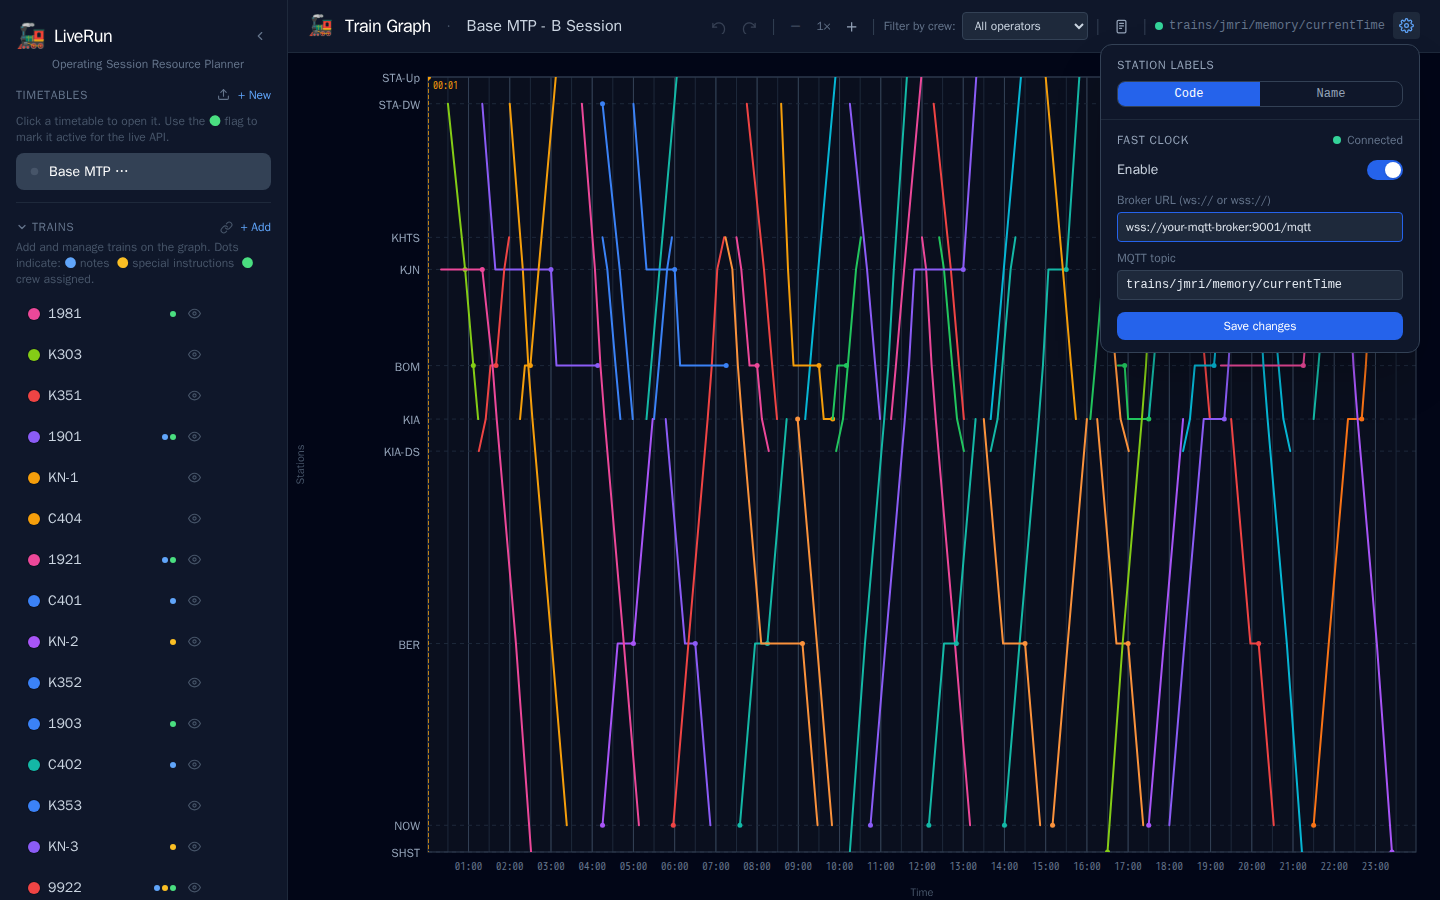
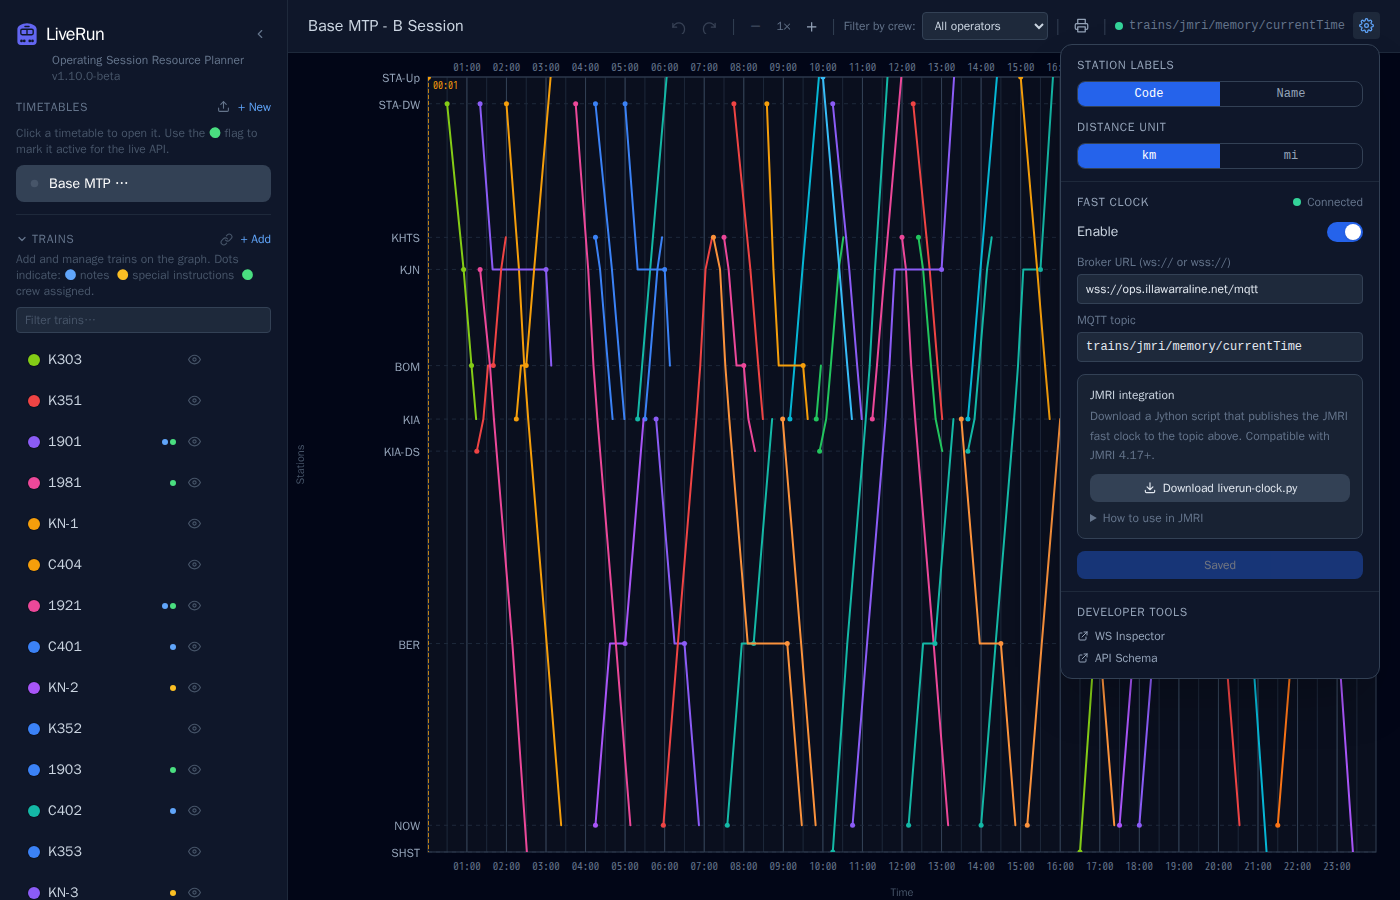
docs: rewrite README for clarity, fix Docker port to 3001, update screenshots
- Rewrote README for cleaner prose and structure; fixed SQLite→JSON persistence description
- Changed docker-compose port mapping from 38001:3001 to 3001:3001
- Added locationAlias field to live station board and train stop API responses
- Updated screenshots to reflect current UI

diff --git a/server/index.js b/server/index.js
@@ -871,6 +871,7 @@ function buildStationBoard(tt, stationNameParam, directionQuery, trainIdFilter, 
         const stopStation = stationMap.get(stop.station_id);
         return {
           stopName: stopStation ? stopStation.name : stop.station_id,
+          locationAlias: stop.location_alias || null,
           arrival: stop.arrival || null,
           departure: stop.departure || null,
           specialInstructions: stop.special_instructions || null,
@@ -946,6 +947,7 @@ app.get('/api/timetables/:id/live/trains/:trainName', (req, res) => {
     const station = stationMap.get(stop.station_id);
     return {
       stopName: station ? station.name : stop.station_id,
+      locationAlias: stop.location_alias || null,
       arrival: stop.arrival || null,
       departure: stop.departure || null,
       specialInstructions: stop.special_instructions || null,

diff --git a/README.md b/README.md
@@ -15,7 +15,8 @@ LiveRun is a web app built for model railway clubs and home layouts. Build a str
 | **Visualise your session** | Build an interactive train graph — see every service at a glance, zoom in for detail, hover for stop times |
 | **Plan crew workloads** | Assign trains to operators, auto-distribute services, and filter the graph by crew member |
 | **Speed up train entry** | Define reusable route templates (Paths) and auto-fill all stop times from a single departure time |
-| **Print station registers** | Generate printable A5 timetables for each station — ready to hand out on the day |
+| **Print timetables and registers** | Print the full working timetable, station registers, and the train graph — formatted for A4 and A5 |
+| **Find trains instantly** | Filter the train list by name as you type — useful in large timetables |
 | **Connect external systems** | Feed guard panels, JMRI displays, and operator apps from a live REST API |
 | **Sync the fast clock** | Subscribe to an MQTT broker topic and see the session clock ticking on the graph |
 | **Export to CATS** | One click exports your trains and crew roster as CATS XML |
@@ -28,13 +29,16 @@ LiveRun is a web app built for model railway clubs and home layouts. Build a str
 
 The heart of LiveRun — an interactive stringline graph with time on the X axis and stations on the Y axis.
 
-- Stations are spaced to true distance scale using configurable graph position values
+- Stations are spaced to scale using configurable graph position values
 - Zoom up to **8×** on the time axis for detailed planning
 - **Live updates** — the graph redraws instantly as you edit stop times
 - Hover any train line for its name, origin, destination, and full stop list
 - **Next service** indicator on the tooltip when the same locomotive runs again later in the session
+- **Branch groups** — organise stations into named branches; each branch is visually separated in the sidebar and on the graph
 - Show or hide individual trains without deleting them
 - Full **undo / redo** history
+
+![Train graph with branch groups](docs/screenshots/01b-train-graph-branches.png)
 
 ![Zoomed graph with tooltip](docs/screenshots/02-train-graph-zoomed-tooltip.png)
 
@@ -45,12 +49,27 @@ The heart of LiveRun — an interactive stringline graph with time on the X axis
 - **Duplicate** — clone an existing timetable as a starting point for a new session
 - **Import / Export** — back up and restore timetables as JSON
 
+### Stations
+
+- Assign a **short code** for compact graph labels and reports (e.g. `KJN` for Kembla Junction)
+- Set a **graph position** to control Y-axis order and spacing on the stringline
+- Group stations by **branch name** to visually separate lines in the sidebar and graph
+- **Auto-space** on insert — push-down shifts all stations below the new one down by one graph position automatically
+- **Location alias toggle** — enable per-station to let individual stops display a custom name (e.g. a platform or siding) in reports and on guard panels
+
 ### Trains
 
 - **Colour-coded** — 12 preset colours plus a custom colour picker
 - **Rich metadata** — train number, type, roster ID, direction, and free-text notes
 - **Special instructions** — per-stop notes surfaced on guard panels and operator displays
 - At-a-glance dot indicators on the train list: 🔵 notes · 🟡 special instructions · 🟢 crew assigned
+- **Search and filter** — type in the filter bar to instantly narrow the train list by name
+- **Terminal stop enforcement** — the first stop has no arrival field; the last stop has no departure field, matching real-world practice
+- **Location alias** — override the displayed station name for a specific stop (e.g. show a platform or siding rather than the parent station)
+
+![Train search and filter](docs/screenshots/03b-train-search-filter.png)
+
+![Train editor with stop list](docs/screenshots/04c-train-editor-stops.png)
 
 ![Train editor](docs/screenshots/04-train-editor.png)
 
@@ -60,6 +79,7 @@ Organise your operators and distribute work fairly.
 
 - Create named crew members with colour coding
 - Assign trains manually or use **Auto-assign** to distribute services across selected operators
+- **Auto-assign options** — choose which crew and trains to include, enforce a minimum break between jobs, and optionally limit to unassigned trains only
 - Filter the graph to a single operator's trains with one click
 - Hover a crew member in the sidebar to highlight all their trains on the graph
 - Drag to reorder crew members
@@ -73,51 +93,54 @@ Organise your operators and distribute work fairly.
 Stop entering stop times from scratch. Define a route once and reuse it.
 
 - Set up a station sequence with travel times and dwell times
-- When adding a train, pick a path and enter a departure time — all stops are filled automatically
+- When adding a train, pick a path and enter a departure time — all stops are filled in automatically
 
 ![Path editor](docs/screenshots/07b-path-editor.png)
 
 ![New train with path selected and stops auto-filled](docs/screenshots/07f-new-train-autofilled.png)
 
-### Station Report
+### Printing
 
-Generate a printable arrival/departure register for any station.
+Open the **Print** menu (🖨 icon) in the header toolbar to access all print options.
 
-- Shows all services with arrival, departure, service type (`[ORG]` / `[CAL]` / `[TRM]`), train notes, and special instructions
-- **A5 landscape** format in a dot-matrix register style — print and hand out at each physical station
-- Open via the printer icon in the header toolbar
+**Station Report** — a printable arrival/departure register for any station. Shows all services with arrival, departure, origin, destination, service type (`[ORG]` / `[CAL]` / `[TRM]`), train notes, and special instructions. A5 landscape dot-matrix style — print and hand out at each physical station.
 
-![Station report — Nowra](docs/screenshots/09-station-report.png)
+**Working Timetable** — a printer-ready tabular timetable in a new window, with stations in rows and trains in columns sorted by first departure. Paginates automatically across A4 landscape pages.
 
-### Fast Clock
+**Train Graph** — the stringline graph rendered in a print-friendly light colour scheme in a new browser window, ready to print or save as PDF.
 
+![Station report with origin and destination columns](docs/screenshots/09-station-report.png)
+
+### Settings and Fast Clock
+
+- **Distance units** — switch between kilometres and miles; the graph and station list update immediately
 - Connect to an **MQTT broker** (e.g. from JMRI) to show a live session clock on the graph
 - Status dot and topic name displayed in the header
 - Broker URL and topic are configured per timetable
 
-![Settings panel](docs/screenshots/08-settings-panel.png)
+![Settings panel — km/mi toggle and fast clock](docs/screenshots/08-settings-panel.png)
 
 ### Live API for External Systems
 
-Mark a timetable as *active* and it's immediately available to guard panels, JMRI displays, and operator apps via a read-only REST API. See the [API reference](#live-timetable-api) below.
+Mark a timetable as *active* and it is immediately available to guard panels, JMRI displays, and operator apps via a read-only REST API. See the [API reference](#live-timetable-api) below.
 
 ---
 
 ## Getting Started
 
-The easiest way to run LiveRun is with **Docker Desktop** — a free app that runs LiveRun in a self-contained environment with no setup, no dependencies, and no risk of breaking anything else on your computer.
+The easiest way to run LiveRun is with **Docker Desktop** — a free app that runs LiveRun in a self-contained environment with no setup, no dependencies, and no risk of affecting anything else on your computer.
 
 ### Step 1 — Install Docker Desktop
 
-Go to **https://www.docker.com/products/docker-desktop** and download the installer for your operating system (Windows or Mac). Run it and follow the prompts. Once installed, open Docker Desktop and wait for it to show the green "Engine running" status in the bottom-left corner. You only need to do this once.
+Go to **https://www.docker.com/products/docker-desktop** and download the installer for your operating system (Windows or Mac). Run it and follow the prompts. Once installed, open Docker Desktop and wait for the green "Engine running" status in the bottom-left corner. You only need to do this once.
 
 ### Step 2 — Download LiveRun
 
-Click the green **Code** button at the top of this page and choose **Download ZIP**. Extract it somewhere convenient (e.g. your Desktop or Documents folder).
+Click the green **Code** button at the top of this page and choose **Download ZIP**. Extract it somewhere convenient — your Desktop or Documents folder works well.
 
 ### Step 3 — Open a terminal in the LiveRun folder
 
-- **Windows:** Open the extracted folder in File Explorer, then click the address bar at the top, type `cmd`, and press Enter.
+- **Windows:** Open the extracted folder in File Explorer, click the address bar at the top, type `cmd`, and press Enter.
 - **Mac:** Right-click the extracted folder and choose *New Terminal at Folder* (or open Terminal and drag the folder in).
 
 ### Step 4 — Start LiveRun
@@ -166,13 +189,14 @@ npm run dev
 ## Running your first session
 
 1. **Create a timetable** — click *+ New* in the sidebar. Give it a name and set the time window (e.g. `06:00 – 22:00`)
-2. **Add stations** — under *Stations*, click *+ Add*. Enter the station name, optional short code, and graph position (km or arbitrary units)
-3. **Add paths** *(optional but recommended)* — under *Paths*, define a route with travel and dwell times per stop. You can apply these when adding trains to auto-fill all stop times
+2. **Add stations** — under *Stations*, click *+ Add*. Enter the station name, optional short code, graph position, and branch name. Use the push-down option when inserting a station mid-line to auto-shift positions below it
+3. **Add paths** *(optional but recommended)* — under *Paths*, define a route with travel and dwell times per stop. Apply a path when adding trains to auto-fill all stop times
 4. **Add trains** — under *Trains*, click *+ Add*. Choose a colour, set stop times (or apply a path), and add any notes or metadata. The graph updates as you type
 5. **Add crew** — under *Crew*, add your operators. Assign trains via the train editor or click *Auto-assign*
 6. **Mark active** — click the 🟢 flag on a timetable to expose it via the live API
-7. **Configure fast clock** — click ⚙ in the top bar and enter your MQTT broker URL and topic
-8. **Export** — hover a timetable name to reveal export options: JSON backup or CATS XML
+7. **Configure the fast clock** — click ⚙ in the top bar and enter your MQTT broker URL and topic. Toggle km/mi for your preferred distance unit
+8. **Print** — use the 🖨 menu in the header to print station registers, the full working timetable, or the train graph
+9. **Export** — hover a timetable name to reveal export options: JSON backup or CATS XML
 
 ---
 
@@ -196,7 +220,7 @@ Exporting via the sidebar generates two files:
 >
 > ![CATS Designer — Edit Train Fields showing ORIGIN as the 3rd field and DESTINATION as the 4th](docs/screenshots/cats-edit-train-fields.png)
 >
-> If the 3rd and 4th fields don't exist, or are a different type, CATS will silently ignore the origin and destination values on import.
+> If the 3rd and 4th fields don't exist or are a different type, CATS will silently ignore the origin and destination values on import.
 
 ---
 
@@ -204,23 +228,19 @@ Exporting via the sidebar generates two files:
 
 LiveRun has no in-app authentication. It is designed for **trusted local networks** — home layouts and club rooms — not public internet exposure.
 
-### How it is secured
-
-- **LAN-only exposure** — the app listens on port 3001 and is accessible to any device on your local network. It is not designed to be exposed to the public internet. Don't forward port 3001 on your router.
+- **LAN-only exposure** — the app listens on a local port and is accessible to any device on your network. Don't forward that port on your router.
 - **Security headers** — Helmet sets `X-Frame-Options`, `X-Content-Type-Options`, HSTS, and other standard hardening headers on every response.
-- **Rate limiting** — API routes are capped at 200 requests per minute to blunt automated abuse.
+- **Rate limiting** — API routes are capped at 200 requests per minute.
 
-### Recoverability
-
-Even in the unlikely event that someone on the LAN makes an unwanted change, the damage is limited. **Timetables can be exported and re-imported as JSON** — export your timetables before a session as a backup and you can restore to any previous state in seconds.
+Even if someone on the LAN makes an unwanted change, the damage is limited. **Timetables can be exported and re-imported as JSON** — export before a session as a backup and you can restore to any previous state in seconds.
 
 ---
 
 ## Live Timetable API
 
-A read-only REST API for connecting guard panels, JMRI displays, and operator apps to the active session. Full endpoint reference is available at **`/api/docs`** when the app is running.
+A read-only REST API for connecting guard panels, JMRI displays, and operator apps to the active session. The full endpoint reference is available at **`/api/docs`** when the app is running.
 
-### Quick endpoint guide
+### Endpoints
 
 - `GET /api/active-timetable`
   Returns `{ id }` for the timetable currently marked active.
@@ -232,15 +252,14 @@ A read-only REST API for connecting guard panels, JMRI displays, and operator ap
   Returns the full timetable and stopping list for one service.
 
 - `GET /api/timetables/{id}/live/stations/{stationName}`
-  Returns all services calling at a station, including each service's onward stopping pattern from that station.
+  Returns all services calling at a station, including each service's onward stopping pattern from that point.
 
 - `GET /api/timetables/{id}/live/stations/{stationName}?direction=up`
-  Same as above, filtered to Up services only. Use `direction=down` for Down services.
-  Up/Down is determined by station order: moving toward higher station order is `down`, lower station order is `up`.
+  Same, filtered to Up services. Use `direction=down` for Down.
+  Direction is determined by station order: moving toward a higher station order is `down`, lower is `up`.
 
 - `GET /api/timetables/{id}/live/stations/{stationName}?trainId=%cityrail%`
-  Optional TrainID wildcard filter (case-insensitive).
-  `%` matches any sequence and `_` matches a single character.
+  Optional TrainID wildcard filter (case-insensitive). `%` matches any sequence, `_` matches a single character.
 
 ### Example station display flow
 
@@ -252,32 +271,29 @@ A read-only REST API for connecting guard panels, JMRI displays, and operator ap
 
 For a live station board that updates as time advances, connect to:
 
-- `ws://localhost:3001/api/live/station-feed?id={timetableId}&station={stationName}&direction=up`
-- `direction` is optional (`up` or `down`). Omit it for both directions.
-- `trainId` is optional and supports case-insensitive wildcards, e.g. `trainId=%cityrail%`.
-- Optional tuning:
-  - `futureCount` (default `10`) limits results to the next N future services.
+```
+ws://localhost:3001/api/live/station-feed?id={timetableId}&station={stationName}
+```
 
-The WebSocket feed is driven by the timetable fast clock MQTT settings (`clock_enabled`, `clock_broker_url`, `clock_topic`).
-On connect, LiveRun subscribes to that topic and pushes a new station feed snapshot whenever the clock value changes.
+Optional parameters:
+- `direction` — `up` or `down`. Omit for both directions.
+- `trainId` — case-insensitive wildcard filter, e.g. `trainId=%cityrail%`.
+- `futureCount` — limit results to the next N services (default `10`).
+
+The feed is driven by the timetable's MQTT fast clock settings. On connect, LiveRun subscribes to the configured topic and pushes a new snapshot whenever the clock advances.
 
 On connect, the server sends:
-
 - `type: "hello"` once
-- `type: "stationFeed"` repeatedly with:
-  - `clockTime`
-  - `services[]`
-  - `minutesUntil` per service
+- `type: "stationFeed"` repeatedly, each with `clockTime`, `services[]`, and `minutesUntil` per service
 
-### Browser inspector page
+### Browser inspector
 
-LiveRun includes a built-in WebSocket inspector page for testing this feed in your browser:
+LiveRun includes a built-in WebSocket inspector for testing the feed in your browser:
 
-- `http://localhost:3001/ws-inspector.html` (Docker / production server)
+- `http://localhost:3001/ws-inspector.html` (Docker / production)
 - `http://localhost:5173/ws-inspector.html` (Vite dev server)
 
-Enter your timetable ID and station, click **Connect**, and watch incoming messages in real time.
-You can also launch it directly from the app header via **WS Inspector**.
+Enter your timetable ID and station, click **Connect**, and watch incoming messages in real time. You can also open it from the app header via **WS Inspector**.
 
 ---
 
@@ -285,7 +301,7 @@ You can also launch it directly from the app header via **WS Inspector**.
 
 ```
 liverun/
-├── server/           Express API + SQLite persistence
+├── server/           Express API + JSON file persistence
 ├── client/           React + TypeScript frontend (Vite + Tailwind)
 ├── Dockerfile        Multi-stage Docker build
 └── docker-compose.yml
